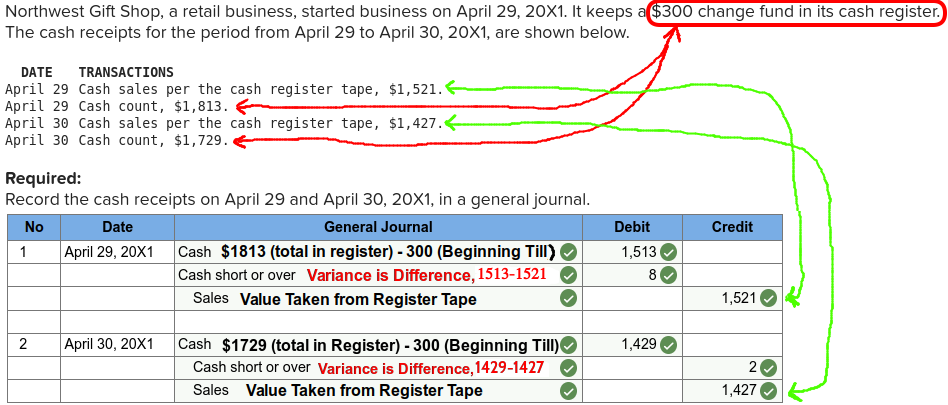
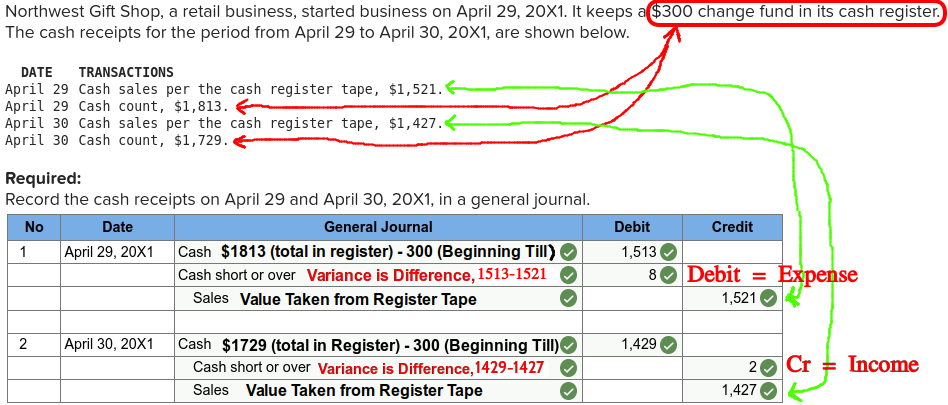
mods

Changed region(s): [[0.7036, 0.6519, 0.9177, 0.7111], [0.8259, 0.8593, 0.9789, 0.9185]]

diff --git a/_pages/chap09.cash.md b/_pages/chap09.cash.md
@@ -28,19 +28,13 @@ Petty Cash must have an **Analysis Sheet** to mark down purchases.
 
 <img src="https://mcc-us.github.io/assets/mc-graw-accounting-course/chap9.cash/11.petty.cash.balance.sheet.png" width="75%" />
 
-### 2. Cash Sales & Cash Variance 
+### 2. Cash Short/Over (Cash Variance)
 
-- Cash Register `Cash Short or Over`, `Cash Variance` account is a temporary account used to record any discrepancies.
+- Cash Register `Cash Short / Over`, `Cash Variance` account is a temporary account used to record any discrepancies.
 
 |Cash Register Sales w/ Cash Short/Over|
 |:-|
 |![](/assets/mc-graw-accounting-course/chap9.cash/q1.exercises.png)|
-
-**A Balance found on:**
-
-|Debit (DR)|Credit (Cr)|
-|:-|:-|
-|**Expense** on Account|**Income** on Account|
 
 ---
 
